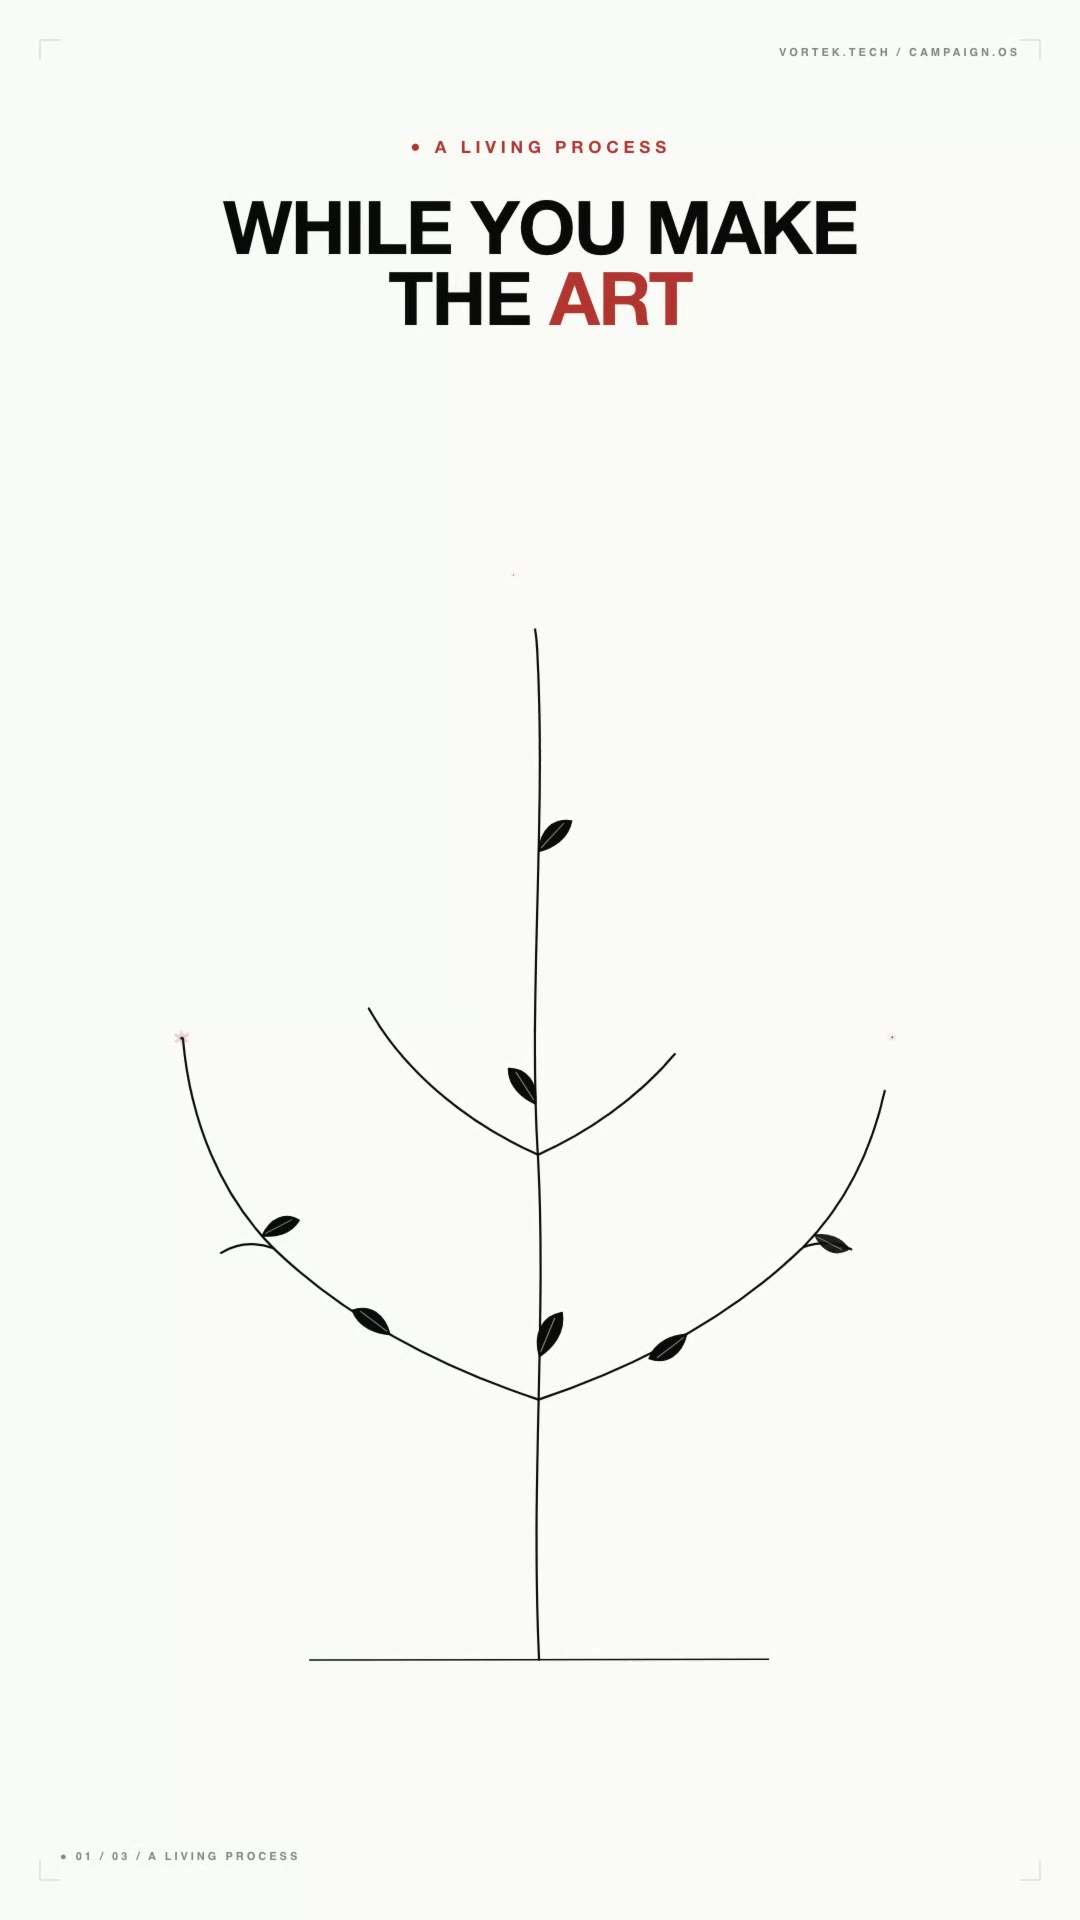
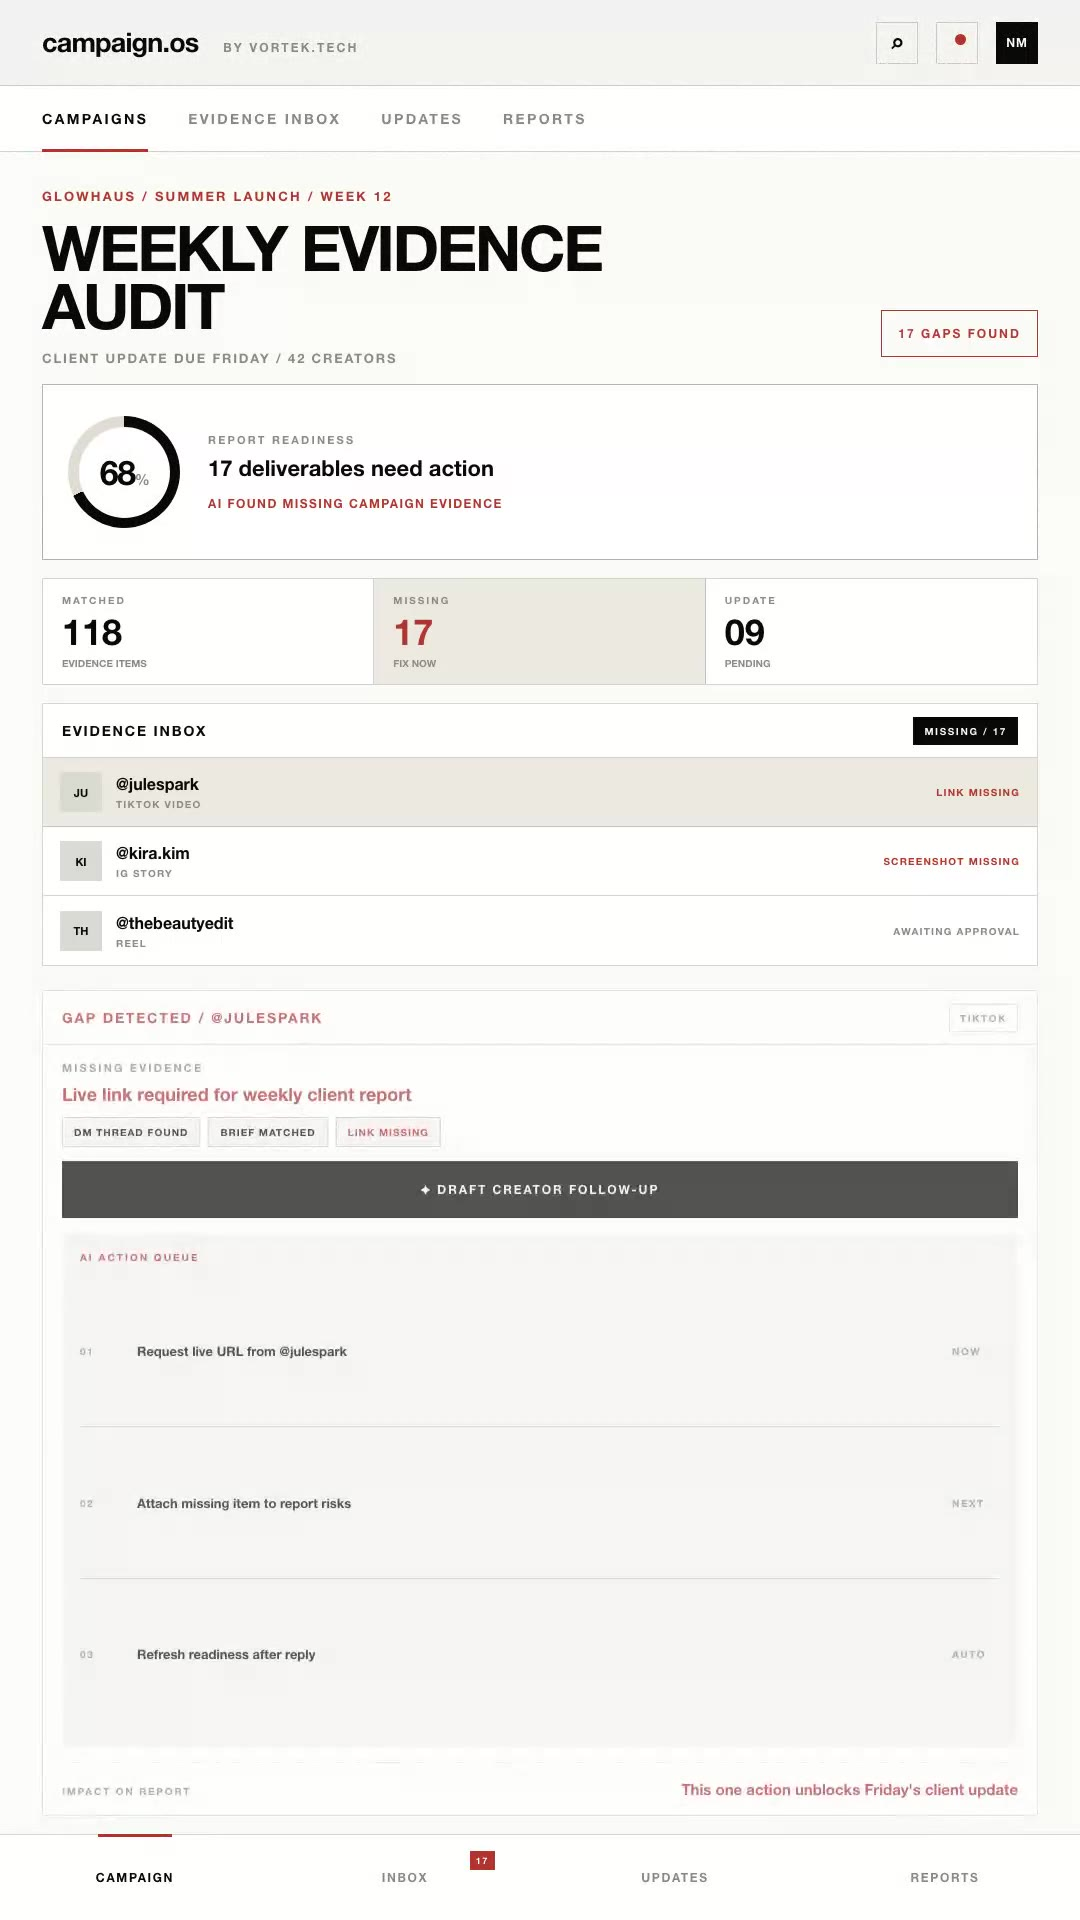
Publish short CampaignOS evidence demo

diff --git a/index.html b/index.html
@@ -5,13 +5,13 @@
     <meta name="viewport" content="width=device-width, initial-scale=1, viewport-fit=cover" />
     <meta
       name="description"
-      content="Vortek.Tech builds AI systems for campaign proof, client updates and reporting"
+      content="Vortek.Tech builds AI systems for campaign evidence, client updates and reporting"
     />
     <meta property="og:title" content="Vortek.Tech" />
-    <meta property="og:description" content="AI systems for campaign proof, client updates and reporting" />
+    <meta property="og:description" content="AI systems for campaign evidence, client updates and reporting" />
     <meta property="og:site_name" content="Vortek.Tech" />
     <meta name="twitter:title" content="Vortek.Tech" />
-    <meta name="twitter:description" content="AI systems for campaign proof, client updates and reporting" />
+    <meta name="twitter:description" content="AI systems for campaign evidence, client updates and reporting" />
     <link rel="icon" type="image/svg+xml" href="/favicon.svg" />
     <script>
       (function () {
@@ -23,7 +23,7 @@
       })();
     </script>
     <title>Vortek.Tech</title>
-    <script type="module" crossorigin src="/assets/index-Ci7t_dbD.js"></script>
+    <script type="module" crossorigin src="/assets/index-B6eS1jaY.js"></script>
     <link rel="stylesheet" crossorigin href="/assets/index-VaFHc_NY.css">
   </head>
   <body>
@@ -46,7 +46,7 @@
           <span>Vortek.Tech</span>
         </a>
         <nav class="nav" aria-label="Primary navigation">
-          <a href="#systems">Proof system</a>
+          <a href="#systems">Evidence system</a>
           <a href="#built-for">Built for</a>
           <a href="#demo">Demo</a>
           <a href="#audit">Audit</a>
@@ -66,17 +66,17 @@
           <div class="hero-kicker">
             <span class="product-name">campaign.os</span>
             <span class="product-by">by Vortek.Tech</span>
-            <span>AI systems for campaign proof / client updates / reporting</span>
+            <span>AI systems for campaign evidence / client updates / reporting</span>
           </div>
           <div class="art-labels" aria-hidden="true">
             <span class="art-label label-main">campaign.os</span>
-            <span class="art-label label-proof">Proof</span>
+            <span class="art-label label-proof">Evidence</span>
             <span class="art-label label-people">Deliverables</span>
             <span class="art-label label-follow">Status</span>
             <span class="art-label label-reports">Reports</span>
           </div>
           <h1 id="hero-title">
-            Campaign proof and client updates in one AI system
+            Campaign evidence and client updates in one AI system
           </h1>
           <div class="hero-copy">
             <p>
@@ -86,7 +86,7 @@
             <div class="source-flow" aria-label="Campaign inputs">
               <span>Brief</span>
               <span>Deliverables</span>
-              <span>Proof</span>
+              <span>Evidence</span>
               <span>Status</span>
               <span>Client update</span>
             </div>
@@ -97,30 +97,30 @@
             </p>
             <div class="metadata-plate" aria-label="System metadata">
               <span>TYPE: CAMPAIGN REPORTING SYSTEM</span>
-              <span>READS: BRIEF / DELIVERABLES / PROOF / STATUS</span>
+              <span>READS: BRIEF / DELIVERABLES / EVIDENCE / STATUS</span>
               <span>BUILDS: CLIENT UPDATES / REPORTS / NEXT ACTIONS</span>
             </div>
             <div class="hero-actions">
               <a class="button primary" href="mailto:[email redacted]?subject=CampaignOS%20audit">Request audit</a>
-              <a class="button ghost" href="#systems">See the proof system</a>
+              <a class="button ghost" href="#systems">See the evidence system</a>
             </div>
           </div>
           <div class="hero-meta" aria-label="Core outcomes">
             <span>Brief</span>
             <span>Deliverables</span>
-            <span>Proof</span>
+            <span>Evidence</span>
             <span>Status</span>
             <span>Reports</span>
           </div>
         </section>
 
         <section class="section intro" id="systems">
-          <div class="section-label">Campaign proof system</div>
+          <div class="section-label">Campaign evidence system</div>
           <div class="intro-grid">
-            <h2>Every promised deliverable gets a proof path</h2>
+            <h2>Every promised deliverable gets an evidence path</h2>
             <p>
               CampaignOS connects what was promised / what was delivered /
-              what proof exists / what is ready for the next client update
+              what evidence exists / what is ready for the next client update
             </p>
           </div>
         </section>
@@ -133,12 +133,12 @@
           </article>
           <article class="system-card">
             <span>02</span>
-            <h3>Proof collection</h3>
+            <h3>Evidence collection</h3>
             <p>Links / screenshots / photos / files / confirmations / metrics stay attached to the right campaign item</p>
           </article>
           <article class="system-card">
             <span>03</span>
-            <h3>Proof status view</h3>
+            <h3>Evidence status view</h3>
             <p>Your team sees what is collected / waiting / ready for review / ready for the client update</p>
           </article>
           <article class="system-card">
@@ -149,7 +149,7 @@
           <article class="system-card">
             <span>05</span>
             <h3>AI agents</h3>
-            <p>Agents read the brief / sort proof / flag open items / draft the report base for the team</p>
+            <p>Agents read the brief / sort evidence / flag open items / draft the report base for the team</p>
           </article>
           <article class="system-card">
             <span>06</span>
@@ -174,16 +174,16 @@
 
         <section class="statement" aria-label="Brand statement">
           <p>
-            Every promise gets a proof path Every proof can become a client update
+            Every deliverable gets an evidence path Every evidence item can become a client update
           </p>
         </section>
 
         <section class="product-demo" id="demo">
           <div class="section-label">Product demo</div>
           <div class="intro-grid demo-intro">
-            <h2>Watch campaign proof become a client update</h2>
+            <h2>Watch campaign evidence become a client update</h2>
             <p>
-              A short walkthrough of the reporting layer: proof intake / missing
+              A short walkthrough of the reporting layer: evidence intake / missing
               items / AI follow-up / report readiness
             </p>
           </div>
@@ -192,7 +192,7 @@
               <video
                 class="demo-desktop-media"
                 data-src="/assets/campaign-reporting-audit-demo-desktop.mp4"
-                poster="/assets/campaign-reporting-audit-demo-desktop-poster.jpg?v=20260523-1"
+                poster="/assets/campaign-reporting-audit-demo-desktop-poster.jpg?v=20260524-1"
                 preload="none"
                 playsinline
                 aria-label="campaign.os desktop reporting demo"
@@ -200,7 +200,7 @@
               <video
                 class="demo-mobile-media"
                 data-src="/assets/campaign-reporting-audit-demo-mobile.mp4"
-                poster="/assets/campaign-reporting-audit-demo-mobile-poster.jpg?v=[phone redacted]"
+                poster="/assets/campaign-reporting-audit-demo-mobile-poster.jpg?v=[phone redacted]"
                 preload="none"
                 playsinline
                 aria-label="campaign.os mobile reporting demo"
@@ -209,8 +209,8 @@
                 <span class="demo-play-icon">▶</span>
                 <span>
                   <b>Watch the demo</b>
-                  <small class="demo-time-desktop">Press play · 42 seconds</small>
-                  <small class="demo-time-mobile">Press play · 42 seconds</small>
+                  <small class="demo-time-desktop">Press play · 21 seconds</small>
+                  <small class="demo-time-mobile">Press play · 21 seconds</small>
                 </span>
               </button>
             </div>
@@ -223,9 +223,9 @@
         <section class="audit" id="audit">
           <div class="section-label">First offer</div>
           <div class="intro-grid audit-intro">
-            <h2>Campaign Reporting & Proof Collection Audit</h2>
+            <h2>Campaign Reporting & Evidence Audit</h2>
             <p>
-              A paid audit of one real campaign: what was promised / what proof
+              A paid audit of one real campaign: what was promised / what evidence
               is needed / where evidence lives / what system and agents should
               be built first
             </p>
@@ -233,8 +233,8 @@
           <div class="audit-grid">
             <article>
               <span>01</span>
-              <h3>Proof map</h3>
-              <p>Campaign promises become proof requirements: links / screenshots / photos / confirmations / metrics / files</p>
+              <h3>Evidence map</h3>
+              <p>Campaign promises become evidence requirements: links / screenshots / photos / confirmations / metrics / files</p>
             </article>
             <article>
               <span>02</span>
@@ -262,19 +262,19 @@
             <article>
               <span>01</span>
               <h3>Audit</h3>
-              <p>Map one campaign: promised outputs / proof rules / evidence locations / reporting pressure points</p>
+              <p>Map one campaign: promised outputs / evidence rules / evidence locations / reporting pressure points</p>
               <strong>5-7 days</strong>
             </article>
             <article>
               <span>02</span>
               <h3>Tracker</h3>
-              <p>Build the first proof tracker for deliverables, owners, statuses, links, screenshots, and client-ready items</p>
+              <p>Build the first evidence tracker for deliverables, owners, statuses, links, screenshots, and client-ready items</p>
               <strong>2-3 weeks</strong>
             </article>
             <article>
               <span>03</span>
               <h3>Agents</h3>
-              <p>Add the first AI agents for brief reading, proof sorting, status checks, and report drafting</p>
+              <p>Add the first AI agents for brief reading, evidence sorting, status checks, and report drafting</p>
               <strong>2-4 weeks</strong>
             </article>
             <article>
@@ -295,10 +295,10 @@
             <div class="team-list" aria-label="CampaignOS delivery team model">
               <article>
                 <span>Brief reader</span>
-                <p>Reads the campaign brief and extracts promised outputs, proof rules, dates, people, and report requirements</p>
+                <p>Reads the campaign brief and extracts promised outputs, evidence rules, dates, people, and report requirements</p>
               </article>
               <article>
-                <span>Proof sorter</span>
+                <span>Evidence sorter</span>
                 <p>Sorts uploaded links, screenshots, posts, photos, files, and confirmations into the right campaign item</p>
               </article>
               <article>
@@ -307,7 +307,7 @@
               </article>
               <article>
                 <span>Report drafter</span>
-                <p>Turns organized proof into a first draft of the weekly update or final report structure</p>
+                <p>Turns organized evidence into a first draft of the weekly update or final report structure</p>
               </article>
             </div>
           </div>
@@ -318,11 +318,11 @@
           <div class="timeline">
             <div>
               <strong>Map</strong>
-              <p>We map the campaign: brief / promised outputs / team roles / proof rules / report format</p>
+              <p>We map the campaign: brief / promised outputs / team roles / evidence rules / report format</p>
             </div>
             <div>
               <strong>Model</strong>
-              <p>We define the entities: campaign / deliverable / person / proof / status / client update</p>
+              <p>We define the entities: campaign / deliverable / person / evidence / status / client update</p>
             </div>
             <div>
               <strong>Build</strong>
@@ -330,7 +330,7 @@
             </div>
             <div>
               <strong>Use</strong>
-              <p>Your team runs proof collection and client updates from the same live system</p>
+              <p>Your team runs evidence collection and client updates from the same live system</p>
             </div>
           </div>
         </section>
@@ -338,14 +338,14 @@
         <section class="contact" id="contact">
           <div>
             <div class="section-label">Request campaign audit</div>
-            <h2>Send one campaign We will map proof, reporting, and the first AI agents to build</h2>
+            <h2>Send one campaign We will map evidence, reporting, and the first AI agents to build</h2>
           </div>
           <form
             class="intake-form"
             action="https://formsubmit.co/ce7418f730f97558e9aaa007ff1b6081"
             method="post"
           >
-            <input type="hidden" name="_subject" value="CampaignOS proof and reporting audit request" />
+            <input type="hidden" name="_subject" value="CampaignOS evidence and reporting audit request" />
             <input type="hidden" name="_template" value="table" />
             <input type="hidden" name="_captcha" value="false" />
             <label>